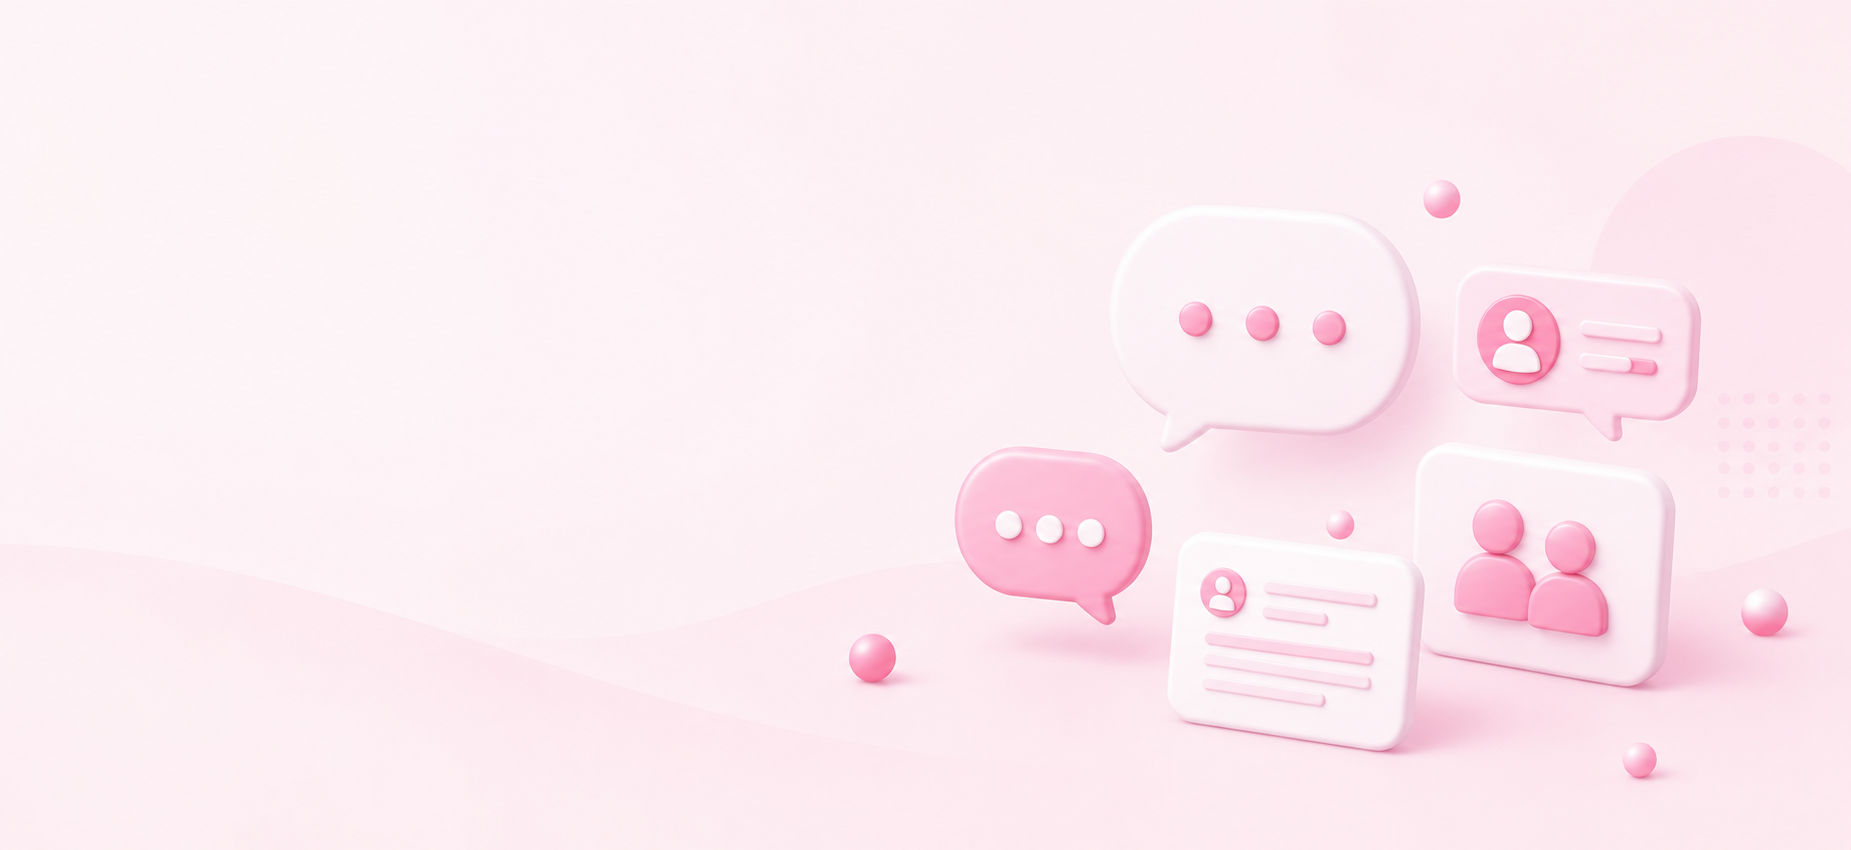
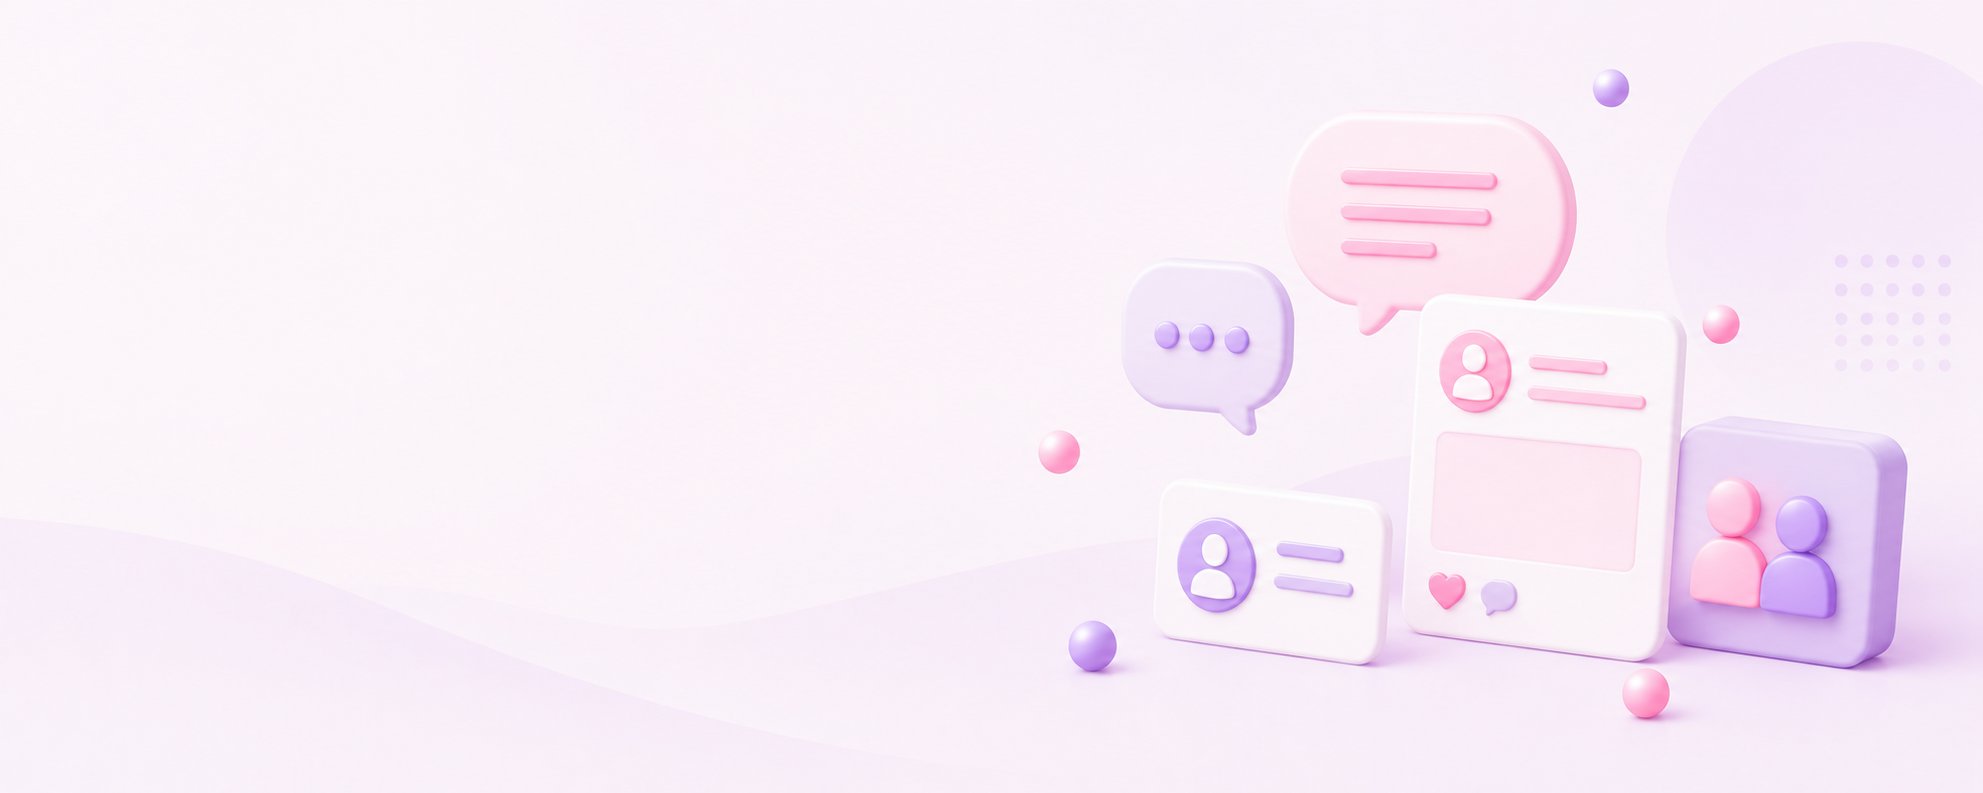
feat: 커뮤니티 hero 이미지 및 스타일 수정 (#118)

diff --git a/apps/web/src/app/community/_components/community-hero.module.css b/apps/web/src/app/community/_components/community-hero.module.css
@@ -1,7 +1,7 @@
 .hero {
   position: relative;
   overflow: hidden;
-  background-color: #fff5f8;
+  background-color: #faf6ff;
 }
 
 .hero::before {
@@ -12,7 +12,7 @@
   background-size: auto 100%;
   background-position: right center;
   background-repeat: no-repeat;
-  opacity: 0.78;
+  opacity: 0.82;
   pointer-events: none;
 }
 
@@ -23,14 +23,14 @@
   background:
     linear-gradient(
       to right,
-      rgba(255, 245, 250, 0.68) 0%,
-      rgba(255, 245, 250, 0.12) 50%,
-      transparent 72%
+      rgba(250, 246, 255, 0.72) 0%,
+      rgba(250, 246, 255, 0.18) 52%,
+      transparent 76%
     ),
     linear-gradient(
       180deg,
       transparent 0%,
-      rgba(255, 245, 250, 0.38) 68%,
+      rgba(250, 246, 255, 0.34) 70%,
       #ffffff 100%
     );
   pointer-events: none;
@@ -62,7 +62,6 @@
   line-height: 1.65;
 }
 
-/* 기존 배경 장식 제거 */
 .bgDecoration {
   display: none;
 }